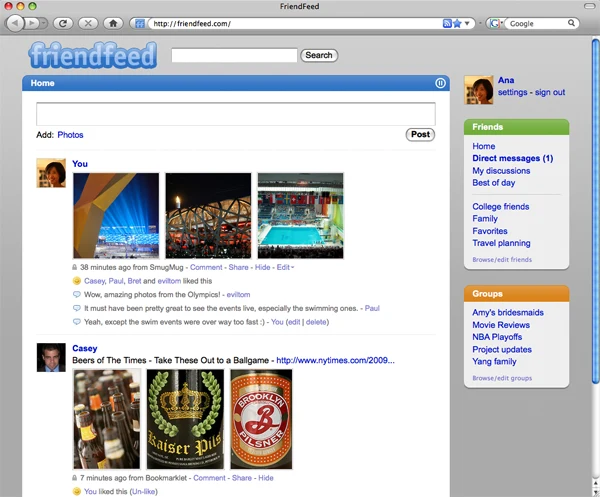
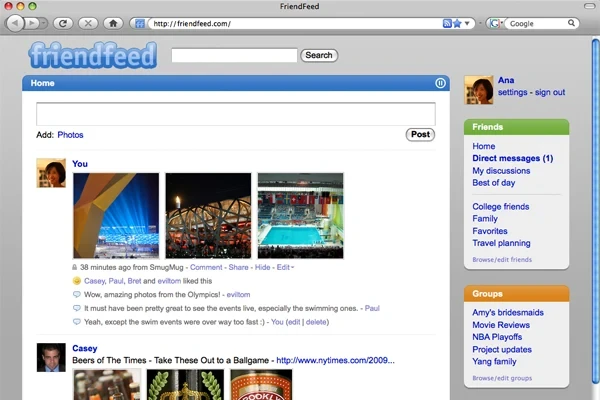
Add files via upload

diff --git a/src/pages/HomePage.tsx b/src/pages/HomePage.tsx
@@ -14,29 +14,29 @@ const panelStyle: React.CSSProperties = {
  * Branded frame for the archived screenshots: reuses the same
  * browser-chrome motif as the hero (traffic-light dots + URL bar) so the
  * two illustrative screenshots read as part of the same site identity
- * instead of bare, borderless images. Also lets the images run larger
- * without looking like unstyled attachments.
+ * instead of bare, borderless images.
+ *
+ * The image renders at its natural aspect ratio (width: 100%, height:
+ * auto) -- no object-fit crop. An earlier version force-stretched the
+ * image to match the height of the paragraph text next to it, which
+ * cropped real content off the sides (sidebar labels) and, on one source
+ * screenshot, revealed a baked-in reflection effect below the real
+ * window. Both source screenshots have since been cropped at the file
+ * level to remove their dead margins/reflections (see /public/images/history),
+ * so the frame no longer needs a CSS crop to avoid showing empty space.
  */
 const ScreenshotFrame: FC<{ src: string; alt: string; caption: string }> = ({
   src,
   alt,
   caption,
 }) => (
-  // height: 100% lets this figure stretch to match the height of a taller
-  // sibling in a flex row (e.g. the paragraph text next to it) instead of
-  // staying at its own natural (shorter) height, which used to leave a
-  // block of empty space below the image.
-  <figure style={{ margin: 0, height: "100%", display: "flex", flexDirection: "column" }}>
+  <figure style={{ margin: 0 }}>
     <div
       style={{
         borderRadius: 6,
         overflow: "hidden",
         boxShadow: "var(--ff-card-shadow)",
         background: "#fff",
-        display: "flex",
-        flexDirection: "column",
-        flex: 1,
-        minHeight: 0,
       }}
     >
       <div
@@ -46,7 +46,6 @@ const ScreenshotFrame: FC<{ src: string; alt: string; caption: string }> = ({
           gap: 6,
           padding: "7px 10px",
           background: "#e8e8e8",
-          flexShrink: 0,
         }}
       >
         <span style={{ width: 8, height: 8, borderRadius: "50%", background: "#ff5f57" }} />
@@ -61,15 +60,7 @@ const ScreenshotFrame: FC<{ src: string; alt: string; caption: string }> = ({
           friendfeed.com
         </span>
       </div>
-      {/* flex: 1 + object-fit: cover makes the screenshot itself grow to
-          fill all remaining height in the frame (cropping instead of
-          letterboxing), so the image now fills its column edge-to-edge
-          with no leftover white space underneath. */}
-      <img
-        src={src}
-        alt={alt}
-        style={{ width: "100%", flex: 1, minHeight: 220, objectFit: "cover", display: "block" }}
-      />
+      <img src={src} alt={alt} style={{ width: "100%", height: "auto", display: "block" }} />
     </div>
     <figcaption
       style={{
@@ -77,7 +68,6 @@ const ScreenshotFrame: FC<{ src: string; alt: string; caption: string }> = ({
         fontSize: 11,
         color: "var(--ff-muted-light)",
         textAlign: "center",
-        flexShrink: 0,
       }}
     >
       {caption}
@@ -223,41 +213,44 @@ export const HomePage: FC = () => {
       <section style={{ ...panelStyle, padding: 16, marginBottom: 16 }}>
         <h2 style={{ fontSize: 15, margin: "0 0 10px" }}>درباره فرندفید</h2>
 
-        <div style={{ display: "flex", alignItems: "stretch", gap: 18, flexWrap: "wrap-reverse" }}>
-          <div style={{ flex: "1 1 320px", minWidth: 260 }}>
-            <p style={{ margin: "0 0 12px", fontSize: 13, lineHeight: 2, color: "var(--ff-text)" }}>
-              فرندفید آسانترین راه برای اشتراک مطالب در اینترنت بود. این سرویس در اکتبر ۲۰۰۷ توسط برت
-              تیلور، جیم نوریس، پل باکهایت و سنجیو سینگ راهاندازی شد و بهروزرسانیهای شبکههای اجتماعی،
-              وبلاگها و میکروبلاگها را در یک صفحه کنار هم میآورد. فیسبوک فرندفید را در سال ۲۰۰۹ خرید. یکی
-              از ویژگیهای شاخص آن بهروزرسانی زنده فید بدون نیاز به رفرش صفحه بود، فناوریای که آن زمان کمتر
-              سایتی داشت.
-            </p>
-            <p style={{ margin: "0 0 12px", fontSize: 13, lineHeight: 2, color: "var(--ff-muted)" }}>
-              کار کردن با آن خیلی ساده بود: ثبتنام میکردی، چند نفر را دنبال میکردی و یک فید شخصی و زنده
-              داشتی، پر از عکسی که یکی در فلیکر گذاشته بود، لینکی که یکی دیگر پیدا کرده بود، یا ویدیویی که یک
-              دوست پسندیده بود. در عوض، دوستانت هم فید خودشان را داشتند، پر از همان چیزهایی که تو به اشتراک
-              گذاشته بودی.
-            </p>
-            <p style={{ margin: "0 0 12px", fontSize: 13, lineHeight: 2, color: "var(--ff-muted)" }}>
-              شروع یک گفتوگو زیر یک پست، یا نشان دادن اینکه چیزی را دوست داری، فقط یک کلیک فاصله داشت. حتی
-              میشد گروه ساخت، مثلاً برای خانواده یا برای همتیمیهای سرکار، و فقط بهروزرسانیهای همانها را
-              دنبال کرد. چیزی هم برای نصب نبود؛ فرندفید را از ایمیل، از موبایل و حتی از دل فیسبوک هم میشد
-              خواند و در آن پست گذاشت. اگر فیدت را عمومی میکردی، حتی آدمهای بدون حساب هم میتوانستند آن را
-              ببینند یا در وبلاگشان جاسازی کنند.
-            </p>
-            <p style={{ margin: 0, fontSize: 13, lineHeight: 2, color: "var(--ff-muted)" }}>
-              فرندفید سریع بود، ساده بود و گفتوگومحور. و چون هر فید از آدمهایی ساخته میشد که واقعاً
-              برایت مهم بودند، محتوایش هم برایت مهم بود.
-            </p>
-          </div>
+        {/* Stacked layout: big full-width screenshot on top, text below.
+            A side-by-side flex layout previously forced the image to
+            stretch/crop to match the text column's height, which cut real
+            content off its sides. Stacking removes that mismatch entirely
+            and lets the screenshot show at full size, uncropped. */}
+        <div style={{ maxWidth: 640, margin: "0 auto 20px" }}>
+          <ScreenshotFrame
+            src="/images/history/rachel-fisher-home.webp"
+            alt="اسکرینشات آرشیوی از صفحه اصلی فرندفید"
+            caption="اسکرینشات از صفحه اصلی فرندفید، از دوران فعالیت سرویس"
+          />
+        </div>
 
-          <div style={{ flex: "1 1 380px", minWidth: 320, maxWidth: 460 }}>
-            <ScreenshotFrame
-              src="/images/history/rachel-fisher-home.webp"
-              alt="اسکرینشات آرشیوی از صفحه اصلی فرندفید"
-              caption="اسکرینشات از صفحه اصلی فرندفید، از دوران فعالیت سرویس"
-            />
-          </div>
+        <div>
+          <p style={{ margin: "0 0 12px", fontSize: 13, lineHeight: 2, color: "var(--ff-text)" }}>
+            فرندفید آسانترین راه برای اشتراک مطالب در اینترنت بود. این سرویس در اکتبر ۲۰۰۷ توسط برت
+            تیلور، جیم نوریس، پل باکهایت و سنجیو سینگ راهاندازی شد و بهروزرسانیهای شبکههای اجتماعی،
+            وبلاگها و میکروبلاگها را در یک صفحه کنار هم میآورد. فیسبوک فرندفید را در سال ۲۰۰۹ خرید. یکی
+            از ویژگیهای شاخص آن بهروزرسانی زنده فید بدون نیاز به رفرش صفحه بود، فناوریای که آن زمان کمتر
+            سایتی داشت.
+          </p>
+          <p style={{ margin: "0 0 12px", fontSize: 13, lineHeight: 2, color: "var(--ff-muted)" }}>
+            کار کردن با آن خیلی ساده بود: ثبتنام میکردی، چند نفر را دنبال میکردی و یک فید شخصی و زنده
+            داشتی، پر از عکسی که یکی در فلیکر گذاشته بود، لینکی که یکی دیگر پیدا کرده بود، یا ویدیویی که یک
+            دوست پسندیده بود. در عوض، دوستانت هم فید خودشان را داشتند، پر از همان چیزهایی که تو به اشتراک
+            گذاشته بودی.
+          </p>
+          <p style={{ margin: "0 0 12px", fontSize: 13, lineHeight: 2, color: "var(--ff-muted)" }}>
+            شروع یک گفتوگو زیر یک پست، یا نشان دادن اینکه چیزی را دوست داری، فقط یک کلیک فاصله داشت. حتی
+            میشد گروه ساخت، مثلاً برای خانواده یا برای همتیمیهای سرکار، و فقط بهروزرسانیهای همانها را
+            دنبال کرد. چیزی هم برای نصب نبود؛ فرندفید را از ایمیل، از موبایل و حتی از دل فیسبوک هم میشد
+            خواند و در آن پست گذاشت. اگر فیدت را عمومی میکردی، حتی آدمهای بدون حساب هم میتوانستند آن را
+            ببینند یا در وبلاگشان جاسازی کنند.
+          </p>
+          <p style={{ margin: 0, fontSize: 13, lineHeight: 2, color: "var(--ff-muted)" }}>
+            فرندفید سریع بود، ساده بود و گفتوگومحور. و چون هر فید از آدمهایی ساخته میشد که واقعاً
+            برایت مهم بودند، محتوایش هم برایت مهم بود.
+          </p>
         </div>
       </section>
 
@@ -265,30 +258,30 @@ export const HomePage: FC = () => {
       <section style={{ ...panelStyle, padding: 16, marginBottom: 16 }}>
         <h2 style={{ fontSize: 15, margin: "0 0 10px" }}>چرا فرندفید دیگر وجود ندارد؟</h2>
 
-        <div style={{ display: "flex", alignItems: "stretch", gap: 18, flexWrap: "wrap" }}>
-          <div style={{ flex: "1 1 380px", minWidth: 320, maxWidth: 460 }}>
-            <ScreenshotFrame
-              src="/images/history/ana-home.webp"
-              alt="اسکرینشات آرشیوی دیگر از صفحه اصلی فرندفید"
-              caption="یک فید نمونه از فرندفید، همان روزهایی که هنوز پر از پست و کامنت بود"
-            />
-          </div>
-
-          <div style={{ flex: "1 1 320px", minWidth: 260 }}>
-            <p style={{ margin: "0 0 12px", fontSize: 13, lineHeight: 2, color: "var(--ff-muted)" }}>
-              آگوست ۲۰۰۹. فیسبوک آنموقع هنوز بزرگترین شبکه اجتماعی دنیا بود، اما توییتر داشت خیلی سریع
-              رشد میکرد و «بهروزرسانی زنده» تبدیل شده بود به چیزی که همه میخواستند. فیسبوک فرندفید را با
-              رقمی حدود پنجاه میلیون دلار خرید، و آنطور که بعدها روشن شد، این خرید بیشتر برای تیم مهندسیاش
-              بود تا برای خود سرویس. همان فناوری فید زندهای که فرندفید ساخته بود، چند سال بعد در دل «فید
-              خبری» فیسبوک، همان چیزی که امروز میلیاردها نفر هر روز میبینند، دوباره به کار گرفته شد.
-            </p>
-          </div>
+        {/* Stacked layout here too, for the same reason as the About
+            section above: side-by-side forced the image to stretch/crop
+            to the text's height. Now the screenshot shows uncropped at
+            full size, with the story text following below it. */}
+        <div style={{ maxWidth: 640, margin: "0 auto 20px" }}>
+          <ScreenshotFrame
+            src="/images/history/ana-home.webp"
+            alt="اسکرینشات آرشیوی دیگر از صفحه اصلی فرندفید"
+            caption="یک فید نمونه از فرندفید، همان روزهایی که هنوز پر از پست و کامنت بود"
+          />
         </div>
 
-        {/* marginTop separates this paragraph from the figcaption directly
-            above it (they used to sit almost flush against each other with
-            no visual break between the image credit line and the next
-            block of story text). */}
+        <p style={{ margin: "0 0 12px", fontSize: 13, lineHeight: 2, color: "var(--ff-muted)" }}>
+          آگوست ۲۰۰۹. فیسبوک آنموقع هنوز بزرگترین شبکه اجتماعی دنیا بود، اما توییتر داشت خیلی سریع
+          رشد میکرد و «بهروزرسانی زنده» تبدیل شده بود به چیزی که همه میخواستند. فیسبوک فرندفید را با
+          رقمی حدود پنجاه میلیون دلار خرید، و آنطور که بعدها روشن شد، این خرید بیشتر برای تیم مهندسیاش
+          بود تا برای خود سرویس. همان فناوری فید زندهای که فرندفید ساخته بود، چند سال بعد در دل «فید
+          خبری» فیسبوک، همان چیزی که امروز میلیاردها نفر هر روز میبینند، دوباره به کار گرفته شد.
+        </p>
+
+        {/* marginTop separates this paragraph from the figcaption above it
+            (they used to sit almost flush against each other with no
+            visual break between the image credit line and the next block
+            of story text). */}
         <div style={{ display: "flex", gap: 18, flexWrap: "wrap", marginTop: 22 }}>
           <div style={{ flex: "1 1 100%" }}>
             <p style={{ margin: "0 0 12px", fontSize: 13, lineHeight: 2, color: "var(--ff-muted)" }}>
